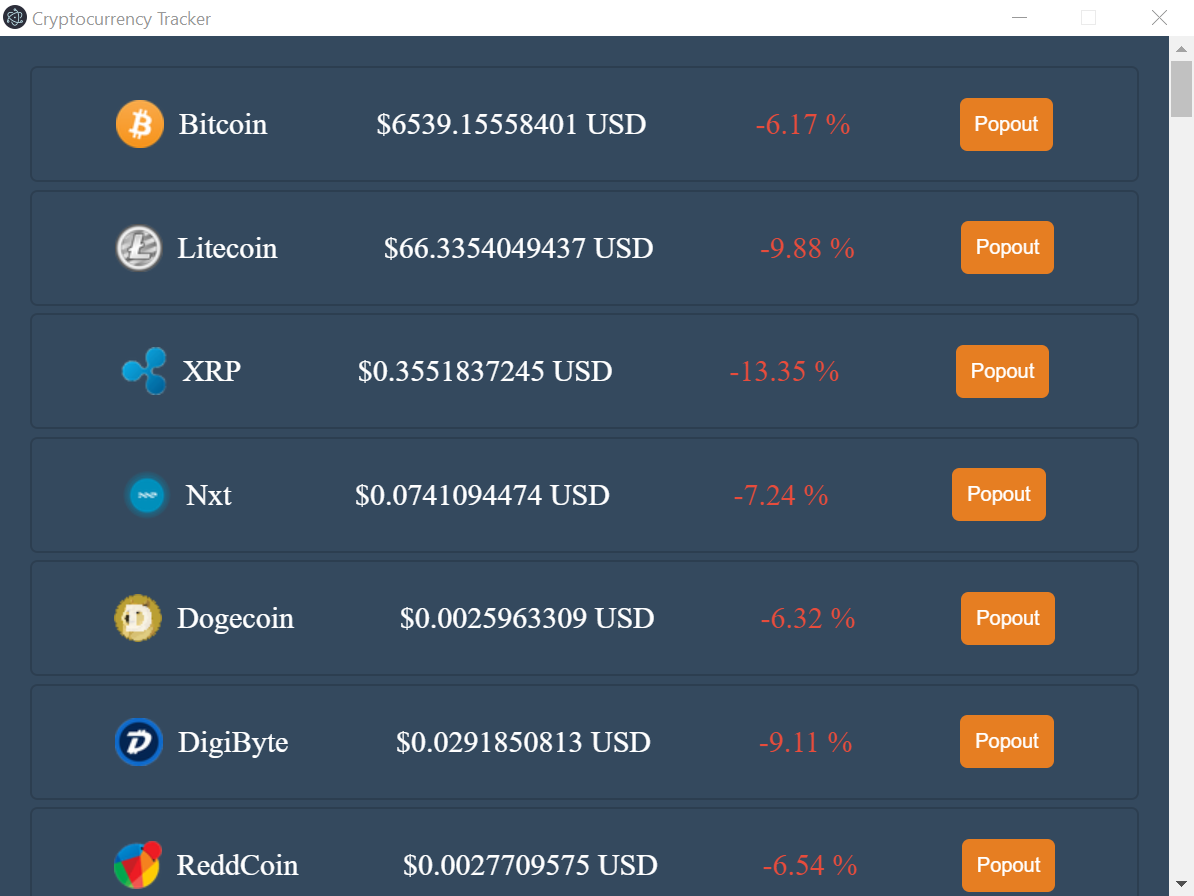
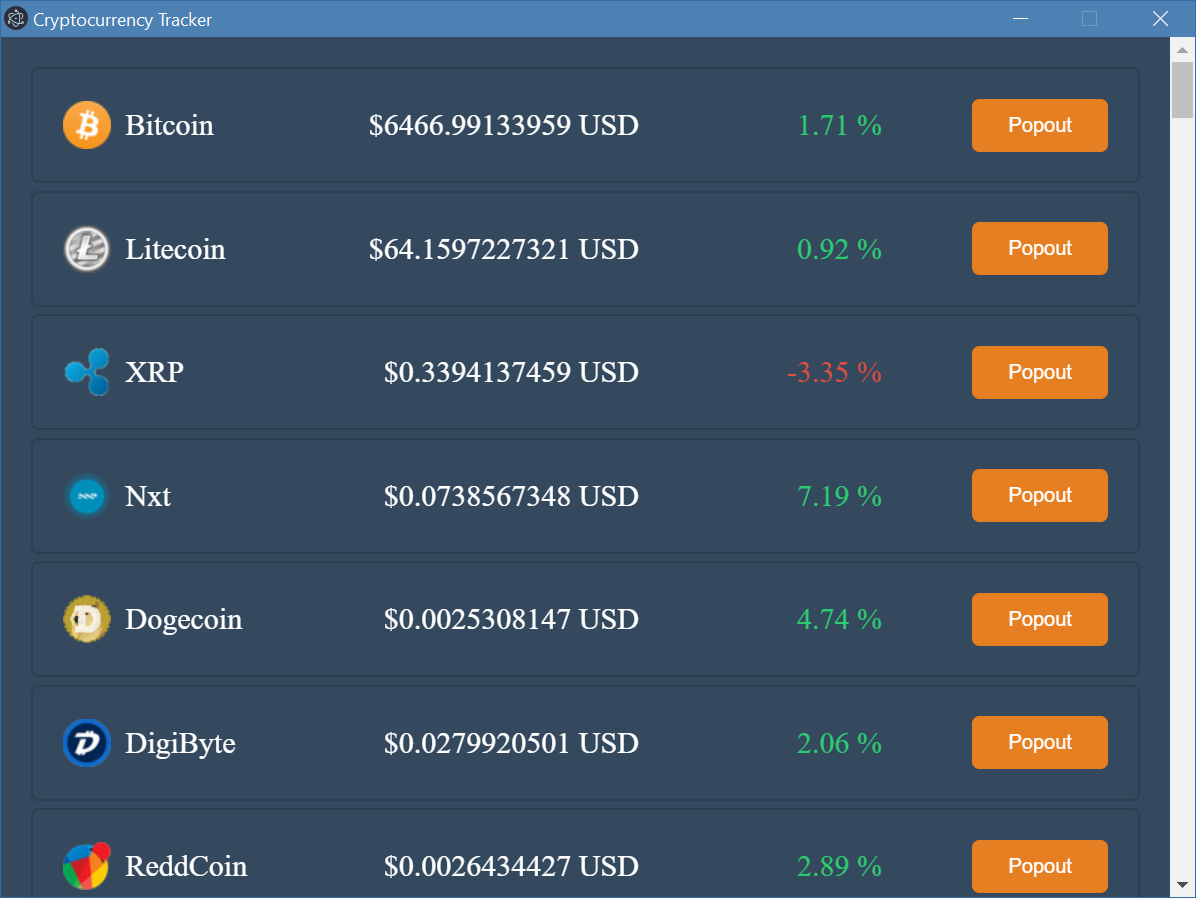
Lesson 5 - align columns

diff --git a/lesson-5/finished-code/src/dashboard.js b/lesson-5/finished-code/src/dashboard.js
@@ -17,8 +17,8 @@ function refreshTable(arg){
         let newElement = `
         <div class="crypto">
             <div class="crypto-info">
-            <img class="crypto-img" src="${img}"/>
-            <span class="crypto-name">${coin.name}</span>
+                <img class="crypto-img" src="${img}"/>
+                <span class="crypto-name">${coin.name}</span>
             </div>
             <div class="crypto-price">$${coin.quotes.USD.price} USD</div>
             <div class="crypto-change ${percentChangeClass}">${coin.quotes.USD.percent_change_24h} %</div>

diff --git a/lesson-5/starter-code/src/dashboard.js b/lesson-5/starter-code/src/dashboard.js
@@ -13,8 +13,8 @@ function refreshTable(arg){
         let newElement = `
         <div class="crypto">
             <div class="crypto-info">
-            <img class="crypto-img" src="${img}"/>
-            <span class="crypto-name">${coin.name}</span>
+                <img class="crypto-img" src="${img}"/>
+                <span class="crypto-name">${coin.name}</span>
             </div>
             <div class="crypto-price">$${coin.quotes.USD.price} USD</div>
             <div class="crypto-change ${percentChangeClass}">${coin.quotes.USD.percent_change_24h} %</div>

diff --git a/lesson-5/finished-code/src/style.css b/lesson-5/finished-code/src/style.css
@@ -14,7 +14,9 @@ body {
 
 .crypto {
     font-size: 20px;
-    display: flex;
+    display: grid;
+    grid-template-columns: 2fr 2fr 2fr 1fr;
+    grid-column-gap: 20px;
     align-items: center;
     justify-content: space-around;
     border: 1px solid #2c3e50;
@@ -31,6 +33,15 @@ body {
 
 .crypto-name {
     vertical-align: middle;
+}
+
+.crypto-price {
+    text-align: right;
+}
+
+.crypto-change {
+    text-align: right;
+    padding-right: 40px;
 }
 
 .btn {

diff --git a/lesson-5/starter-code/src/style.css b/lesson-5/starter-code/src/style.css
@@ -14,7 +14,9 @@ body {
 
 .crypto {
     font-size: 20px;
-    display: flex;
+    display: grid;
+    grid-template-columns: 2fr 2fr 2fr 1fr;
+    grid-column-gap: 20px;
     align-items: center;
     justify-content: space-around;
     border: 1px solid #2c3e50;
@@ -31,6 +33,15 @@ body {
 
 .crypto-name {
     vertical-align: middle;
+}
+
+.crypto-price {
+    text-align: right;
+}
+
+.crypto-change {
+    text-align: right;
+    padding-right: 40px;
 }
 
 .btn {

diff --git a/lesson-5/README.md b/lesson-5/README.md
@@ -147,8 +147,6 @@ Here we are simply receiving the data we sent from `main.js`. The actual data pr
 Run your application with `npm start` inside your working directory (The same folder where your `package.json` is, not `src` folder!). You should see something like this:
 ![Main UI](ui1.png)
 
-I am sorry if you are bothered by the misalignment of the prices, me too, but UI is not the priority of this lesson. However, it can be a good exercise for you if you want to fix it.
-
 ## Part 5 - Create the popup windows
 In this final part of the tutorial, we are sending a message from the a render process and processing it in `main.js`
 
